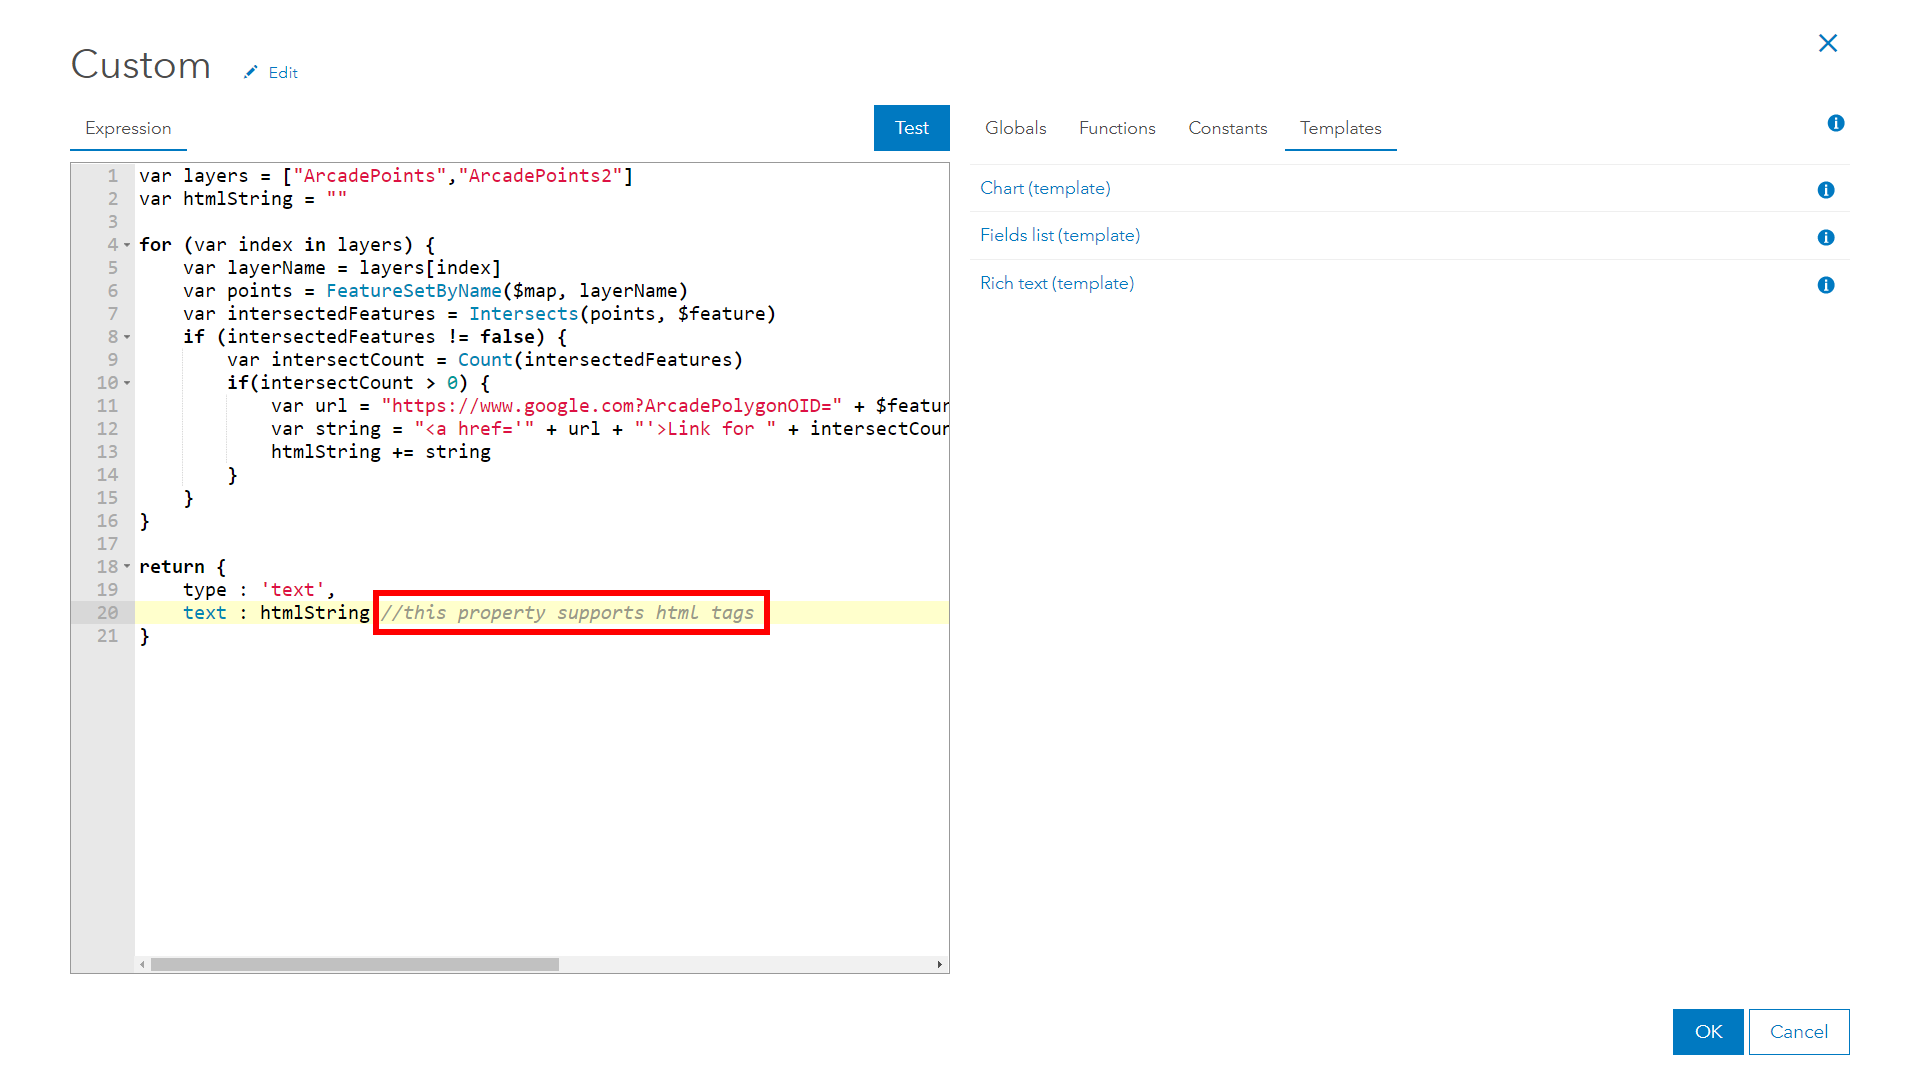
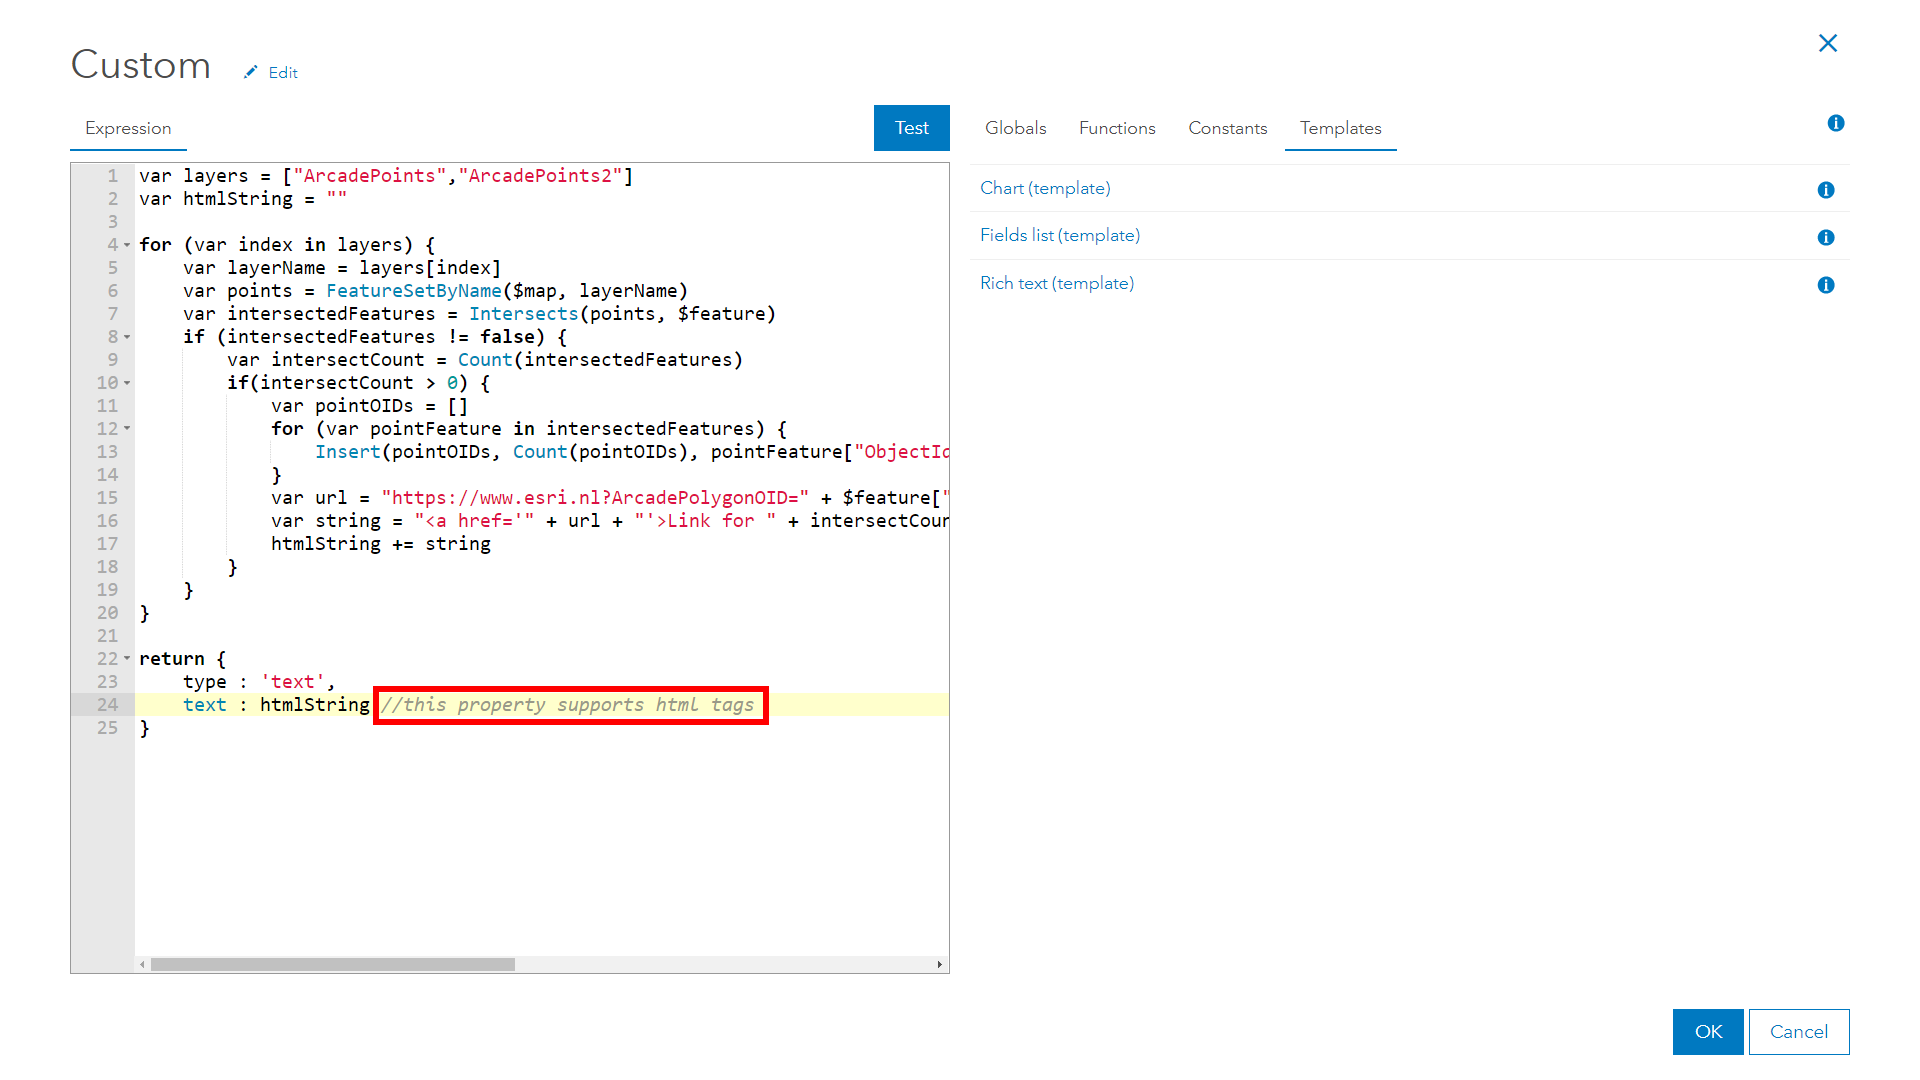
Added Return HTML with Arcade

Changed region(s): [[0.0312, 0.4583, 0.5, 0.6722], [0.125, 0.3667, 0.5, 0.4278], [0.25, 0.8861, 0.3125, 0.9167]]

diff --git a/ArcadeReturnHtml/index.html b/ArcadeReturnHtml/index.html
@@ -142,7 +142,11 @@
     <span style="color: #000080; font-weight: bold">if</span> (intersectedFeatures != <span style="color: #000080; font-weight: bold">false</span>) {
         <span style="color: #000080; font-weight: bold">var</span> intersectCount = Count(intersectedFeatures)
         <span style="color: #000080; font-weight: bold">if</span>(intersectCount &gt; <span style="color: #0000FF">0</span>) {
-            <span style="color: #000080; font-weight: bold">var</span> url = <span style="color: #0000FF">&quot;https://www.esri.nl?ArcadePolygonOID=&quot;</span> + $feature[<span style="color: #0000FF">&quot;ObjectId&quot;</span>] + <span style="color: #0000FF">&quot;&amp;LayerName=&quot;</span> + layerName
+            <span style="color: #000080; font-weight: bold">var</span> pointOIDs = []
+            <span style="color: #000080; font-weight: bold">for</span> (<span style="color: #000080; font-weight: bold">var</span> pointFeature <span style="color: #000080; font-weight: bold">in</span> intersectedFeatures) {
+                Insert(pointOIDs, Count(pointOIDs), pointFeature[<span style="color: #0000FF">&quot;ObjectId&quot;</span>])
+            }
+            <span style="color: #000080; font-weight: bold">var</span> url = <span style="color: #0000FF">&quot;https://www.esri.nl?ArcadePolygonOID=&quot;</span> + $feature[<span style="color: #0000FF">&quot;ObjectId&quot;</span>] + <span style="color: #0000FF">&quot;&amp;LayerName=&quot;</span> + layerName + <span style="color: #0000FF">&quot;&amp;PointOIDs=&quot;</span> + Concatenate(pointOIDs, <span style="color: #0000FF">&quot;,&quot;</span>)
             <span style="color: #000080; font-weight: bold">var</span> string = <span style="color: #0000FF">&quot;&lt;a href=&#39;&quot;</span> + url + <span style="color: #0000FF">&quot;&#39;&gt;Link for &quot;</span> + intersectCount + <span style="color: #0000FF">&quot; intersecting point(s) on layer &quot;</span> + layerName + <span style="color: #0000FF">&quot;&lt;/a&gt;&lt;br&gt;&lt;br&gt;&quot;</span>
             htmlString += string
         }
@@ -154,6 +158,7 @@
 	text : htmlString <span style="color: #008800; font-style: italic">//this property supports html tags </span>
 }
 </pre></div>
+
 
         </div>
         <div id="mapDiv"></div>
